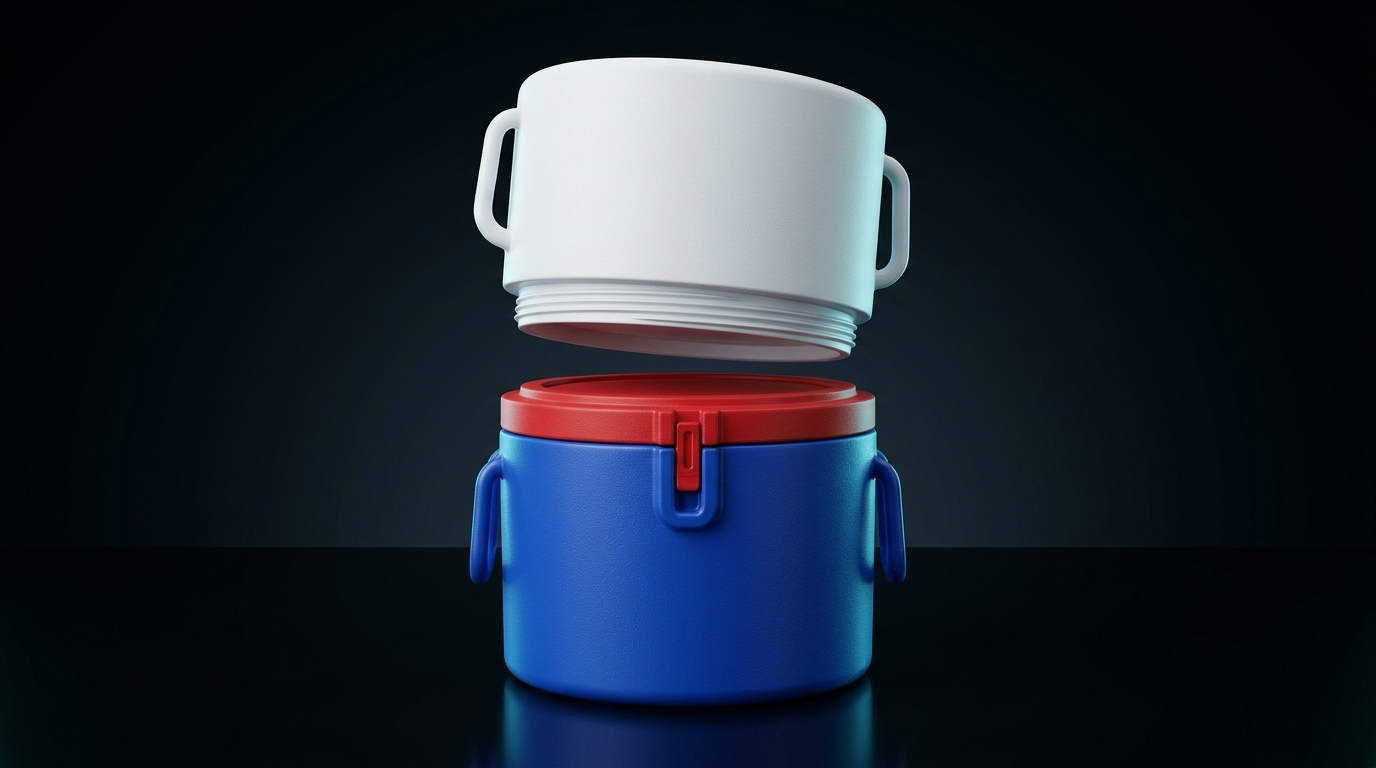
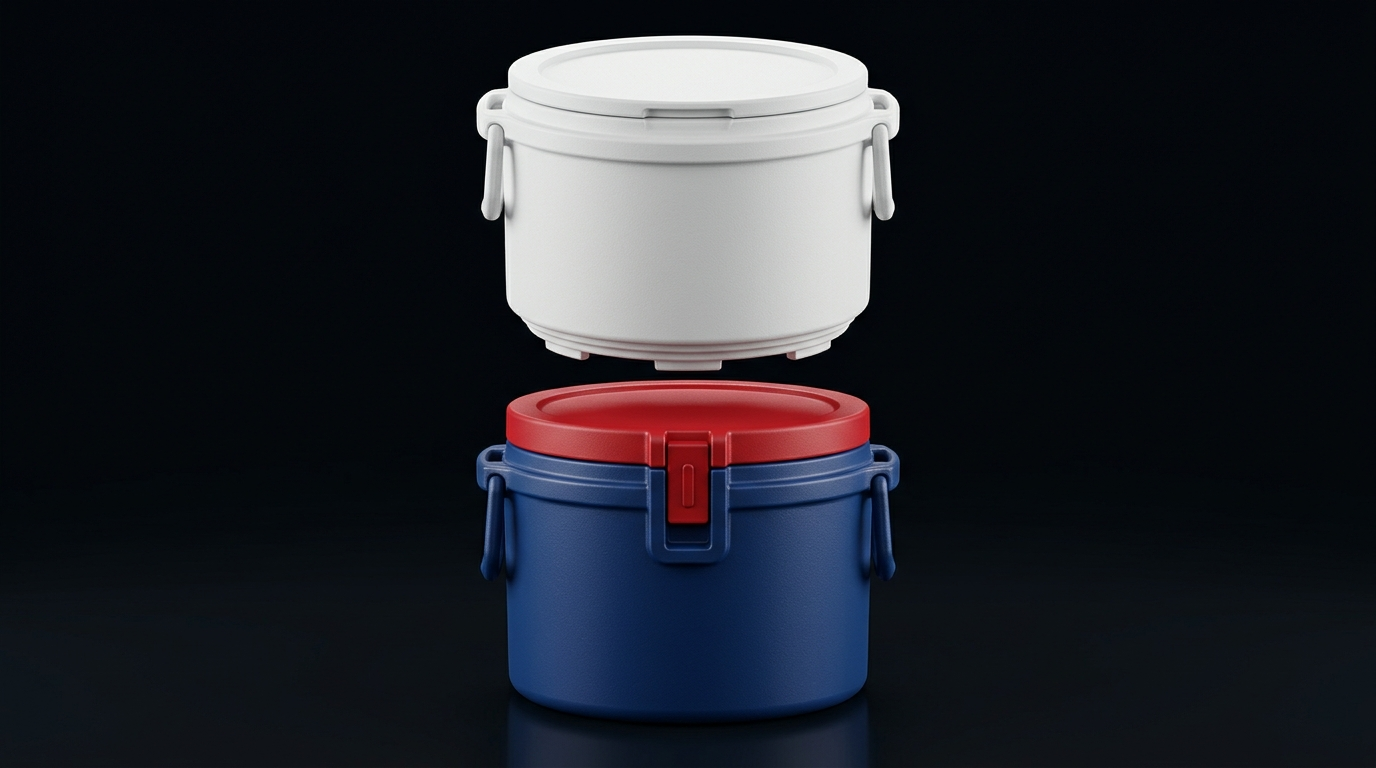
Flip upper white cooler upright with bottom interlocking feet in simulator animation player and Angle 5 photo

Changed region(s): [[0.25, 0.0312, 0.75, 1.0]]

diff --git a/locking-mechanism.html b/locking-mechanism.html
@@ -1060,12 +1060,22 @@
         const lidShiftX = sliderLocked ? 0 : upperShiftX;
         const lidLiftY = sliderLocked ? 0 : upperLiftY;
 
-        // 1. Draw Bottom Patriot Blue Cooler
+        // 1. Draw Bottom Patriot Blue Cooler (Upright)
+        // Left & Right Flat Horizontal Side Handles on Blue Cooler
+        ctx.fillStyle = '#1539a8';
+        ctx.strokeStyle = 'rgba(255,255,255,0.3)';
+        ctx.lineWidth = 2;
+        ctx.beginPath();
+        ctx.roundRect(cx - w/2 - 18, baseTopY + 18, 18, 10, [5, 0, 0, 5]);
+        ctx.roundRect(cx + w/2, baseTopY + 18, 18, 10, [0, 5, 5, 0]);
+        ctx.fill();
+        ctx.stroke();
+
         ctx.fillStyle = '#1e4bd7';
         ctx.strokeStyle = 'rgba(255,255,255,0.25)';
         ctx.lineWidth = 2;
         ctx.beginPath();
-        ctx.roundRect(cx - w/2, baseTopY, w, 120, [0, 0, 14, 14]);
+        ctx.roundRect(cx - w/2, baseTopY, w, 115, [0, 0, 14, 14]);
         ctx.fill();
         ctx.stroke();
 
@@ -1094,7 +1104,7 @@
         ctx.textAlign = 'center';
         ctx.fillText('BOTTOM COOLER (20-START HELIX COLLAR)', cx, baseTopY + 65);
 
-        // 2. Draw Patriot Red Lid
+        // 2. Draw Patriot Red Lid (with Top Recessed Stacking Ring for Upper Cooler's Feet)
         const lidY = baseTopY - 38 + lidLiftY;
         ctx.save();
         ctx.translate(lidShiftX, 0);
@@ -1107,9 +1117,13 @@
         ctx.fill();
         ctx.stroke();
 
+        // Top Recessed Interlocking Channel on Red Lid
+        ctx.fillStyle = '#991b1b';
+        ctx.fillRect(cx - w/2 + 14, lidY, w - 28, 7);
+
         ctx.fillStyle = '#ffffff';
         ctx.font = 'bold 12px sans-serif';
-        ctx.fillText('PATRIOT RED LID (1/20 TURN HELIX)', cx, lidY + 22);
+        ctx.fillText('PATRIOT RED LID (1/20 TURN HELIX)', cx, lidY + 24);
 
         // Draw External Vertical Deadbolt Slider on the right side of the Red Lid
         const sliderY = sliderLocked ? (lidY + 20) : (lidY + 4);
@@ -1129,26 +1143,73 @@
 
         ctx.restore();
 
-        // 3. Draw Stacked Alpine White Upper Cooler
-        const upperY = baseTopY - 155 + upperLiftY;
+        // 3. Draw Stacked Alpine White Upper Cooler (NORMAL UPRIGHT ORIENTATION)
+        const upperY = baseTopY - 148 + upperLiftY;
         ctx.save();
         ctx.translate(upperShiftX, 0);
 
+        // 3a. Bottom Interlocking Feet protruding from the underside of the White Cooler into the Red Lid
+        ctx.fillStyle = '#cbd5e1';
+        ctx.strokeStyle = '#64748b';
+        ctx.lineWidth = 1.5;
+        ctx.beginPath();
+        ctx.roundRect(cx - w/2 + 16, upperY + 96, w - 32, 16, [0, 0, 6, 6]);
+        ctx.fill();
+        ctx.stroke();
+
+        // 20-Start Helix Interlocking Lugs on the Bottom Feet
+        for (let i = 0; i < 9; i++) {
+          const fx = cx - w/2 + 24 + i * 24;
+          ctx.strokeStyle = '#0284c7';
+          ctx.lineWidth = 2;
+          ctx.beginPath();
+          ctx.moveTo(fx, upperY + 110);
+          ctx.lineTo(fx + 12, upperY + 99);
+          ctx.stroke();
+        }
+
+        // 3b. Left & Right Flat Horizontal Side Handles near the TOP shoulder of the Upright White Cooler
+        ctx.fillStyle = '#e2e8f0';
+        ctx.strokeStyle = '#94a3b8';
+        ctx.lineWidth = 2;
+        ctx.beginPath();
+        ctx.roundRect(cx - w/2 - 18, upperY + 16, 18, 10, [5, 0, 0, 5]);
+        ctx.roundRect(cx + w/2, upperY + 16, 18, 10, [0, 5, 5, 0]);
+        ctx.fill();
+        ctx.stroke();
+
+        // 3c. Upright White Cooler Main Body (Flat top collar, rounded bottom shoulders [0, 0, 14, 14])
         ctx.fillStyle = '#f0f4fa';
         ctx.strokeStyle = '#94a3b8';
         ctx.lineWidth = 2;
         ctx.beginPath();
-        ctx.roundRect(cx - w/2, upperY, w, 112, [12, 12, 6, 6]);
+        ctx.roundRect(cx - w/2, upperY, w, 98, [0, 0, 14, 14]);
         ctx.fill();
         ctx.stroke();
 
-        ctx.fillStyle = '#0f172a';
+        // 3d. Upper Cooler's Own Top Lid & Rim at the TOP of the White Cooler
+        ctx.fillStyle = '#e1232d';
+        ctx.strokeStyle = 'rgba(255,255,255,0.35)';
+        ctx.lineWidth = 1.5;
+        ctx.beginPath();
+        ctx.roundRect(cx - w/2 - 3, upperY - 18, w + 6, 18, [6, 6, 2, 2]);
+        ctx.fill();
+        ctx.stroke();
+
+        ctx.fillStyle = '#ffffff';
         ctx.textAlign = 'center';
+        ctx.font = 'bold 9.5px monospace';
+        ctx.fillText('UPPER COOLER TOP LID', cx, upperY - 6);
+
+        ctx.fillStyle = '#0f172a';
         ctx.font = 'bold 13px sans-serif';
-        ctx.fillText('STACKED UPPER COOLER TIER', cx, upperY + 52);
-        ctx.font = 'bold 11px monospace';
+        ctx.fillText('UPRIGHT WHITE COOLER TIER', cx, upperY + 42);
+        ctx.font = 'bold 10.5px monospace';
         ctx.fillStyle = '#1e4bd7';
-        ctx.fillText('↺ TWIST 1/20TH CIRCLE (18° CCW) TO REMOVE', cx, upperY + 74);
+        ctx.fillText('↺ TWIST 1/20TH CIRCLE (18° CCW) TO UNSTACK', cx, upperY + 62);
+        ctx.fillStyle = '#475569';
+        ctx.font = 'bold 10px monospace';
+        ctx.fillText('▼ BOTTOM INTERLOCKING FEET LOCK INTO RED LID ▼', cx, upperY + 84);
 
         ctx.restore();
 
